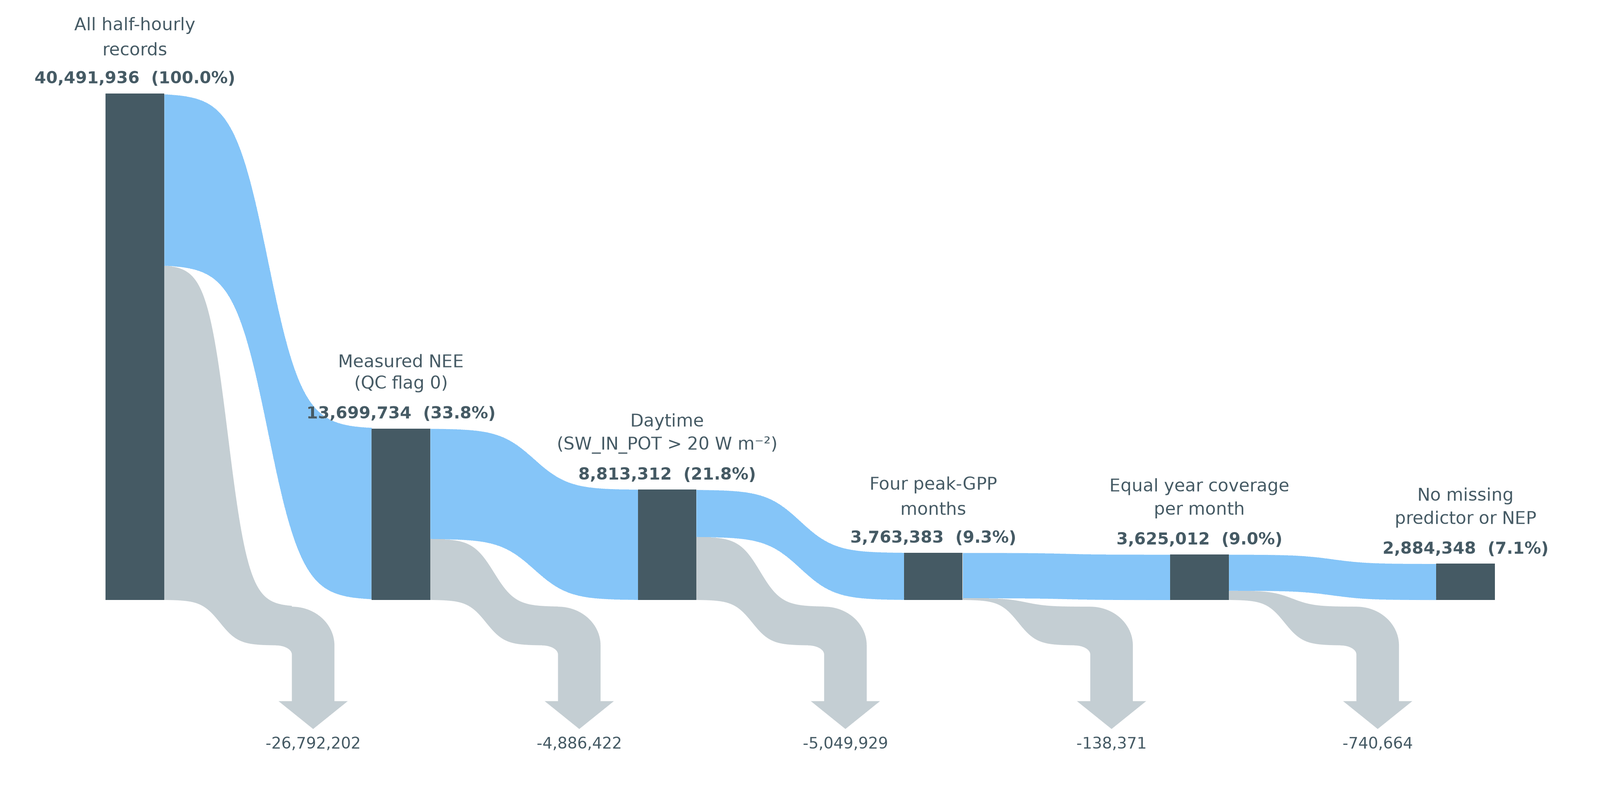
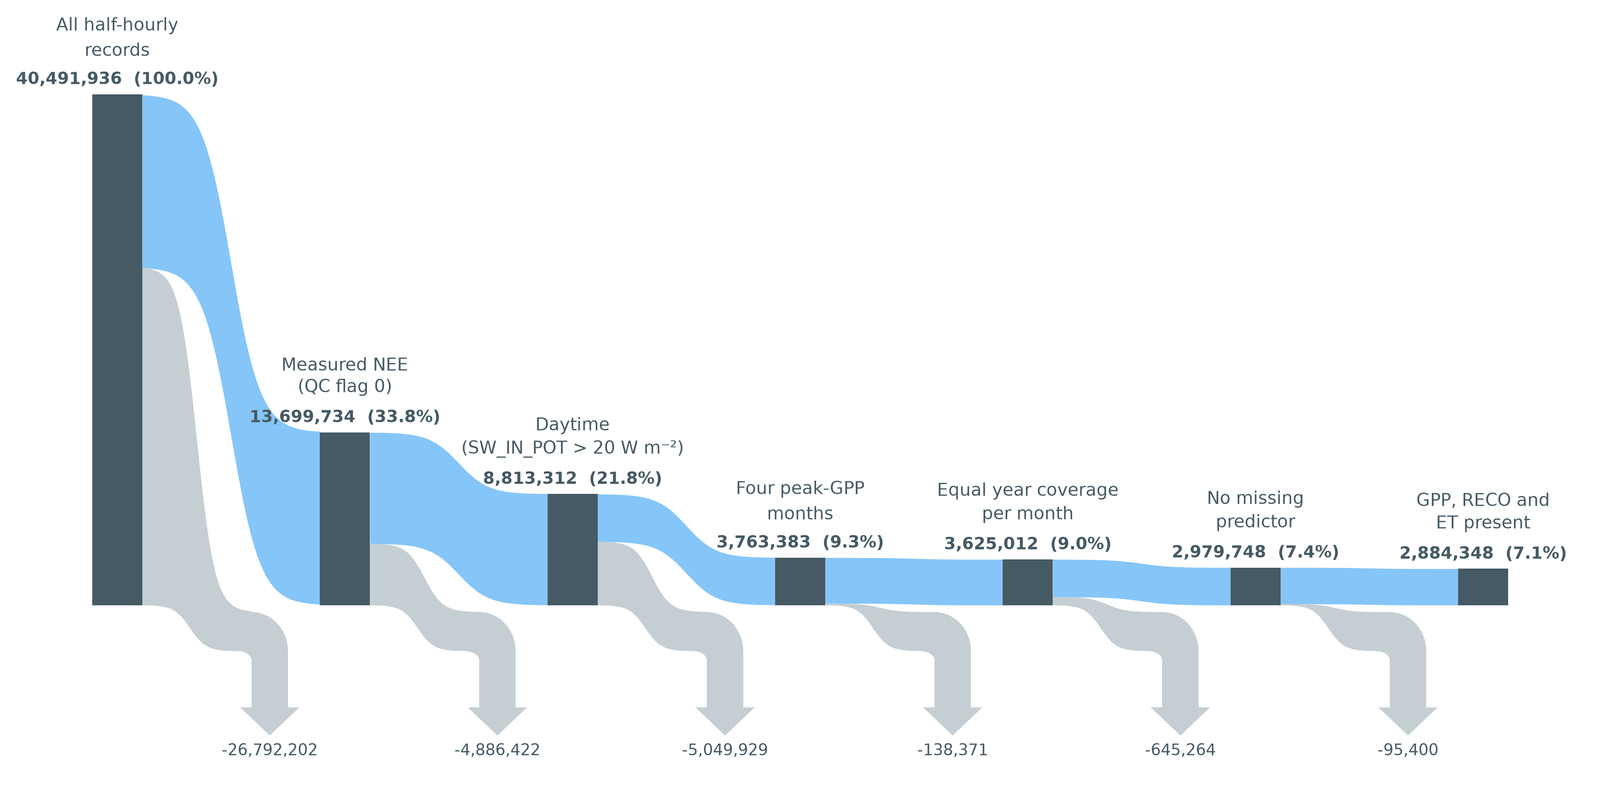
Show missing GPP, RECO and LE as own step of data flow
Script 22 counts records with complete predictors before requiring LE, GPP and RECO as stage 21 does. Supplementary Fig. 10 and Supplementary Data 1 show both steps. Column descriptions and web figure updated.

Changed region(s): [[0.0, 0.0, 0.9688, 0.9759]]

diff --git a/scripts/20_subsets/22_data_flow.py b/scripts/20_subsets/22_data_flow.py
@@ -25,7 +25,8 @@ VARIANT = ""
 # Sites run in parallel. Memory is the limit, as in stage 21.
 N_WORKERS = 3
 
-STEPS = ["all_records", "measured_nee", "daytime", "peak_months", "year_balanced", "complete_cases"]
+STEPS = ["all_records", "measured_nee", "daytime", "peak_months", "year_balanced",
+         "complete_predictors", "complete_cases"]
 
 
 def count_site(task: tuple) -> dict:
@@ -64,9 +65,13 @@ def count_site(task: tuple) -> dict:
     df = df.loc[keep]
     counts['year_balanced'] = len(df)
 
-    required = [varnames[v] for v in
-                ('nee_var', 'le_var', 'gpp_var', 'reco_var', 'ta_var', 'vpd_var', 'swin_var', 'swc_var')]
-    counts['complete_cases'] = len(df[required].dropna())
+    # Stage 21 drops a record with any of the eight variables missing. Counted in two steps,
+    # since the gap-filled LE, GPP and RECO are missing over whole periods at a few sites
+    predictors = [varnames[v] for v in ('nee_var', 'ta_var', 'vpd_var', 'swin_var', 'swc_var')]
+    df = df[predictors + [varnames[v] for v in ('le_var', 'gpp_var', 'reco_var')]]
+    df = df.loc[df[predictors].notna().all(axis=1)]
+    counts['complete_predictors'] = len(df)
+    counts['complete_cases'] = len(df.dropna())
     counts['SWC_VAR'] = varnames['swc_var']
     return counts
 

diff --git a/scripts/50_figures/67_suppdata-1_data_flow_per_site.py b/scripts/50_figures/67_suppdata-1_data_flow_per_site.py
@@ -2,7 +2,7 @@
 Supplementary Data 1: the record losses per site, from delivered half-hours to the modeled
 records.
 
-One row per site, the six steps of Supplementary Fig. 10 as columns in order, the soil water
+One row per site, the seven steps of Supplementary Fig. 10 as columns in order, the soil water
 layer the site used, and a last row with the totals.
 
 Reads:
@@ -30,7 +30,8 @@ COLUMNS = [
     ('daytime', 'Daytime (SW_IN_POT > 20 W m-2)'),
     ('peak_months', 'Four peak-GPP months'),
     ('year_balanced', 'Equal year coverage per month'),
-    ('complete_cases', 'Complete cases (records used)'),
+    ('complete_predictors', 'No missing predictor'),
+    ('complete_cases', 'GPP, RECO and ET present (records used)'),
     ('SWC_VAR', 'Soil water layer used'),
 ]
 COUNT_COLUMNS = [c for c, _ in COLUMNS if c not in ('SITE', 'IGBP', 'SWC_VAR')]

diff --git a/scripts/50_figures/66_suppfig-10_data_flow_sankey.py b/scripts/50_figures/66_suppfig-10_data_flow_sankey.py
@@ -28,7 +28,8 @@ STEPS = [
     ('daytime', 'Daytime\n(SW_IN_POT > 20 W m⁻²)'),
     ('peak_months', 'Four peak-GPP\nmonths'),
     ('year_balanced', 'Equal year coverage\nper month'),
-    ('complete_cases', 'No missing\npredictor or NEP'),
+    ('complete_predictors', 'No missing\npredictor'),
+    ('complete_cases', 'GPP, RECO and\nET present'),
 ]
 
 KEPT = '#2196F3'   # Material blue 500
